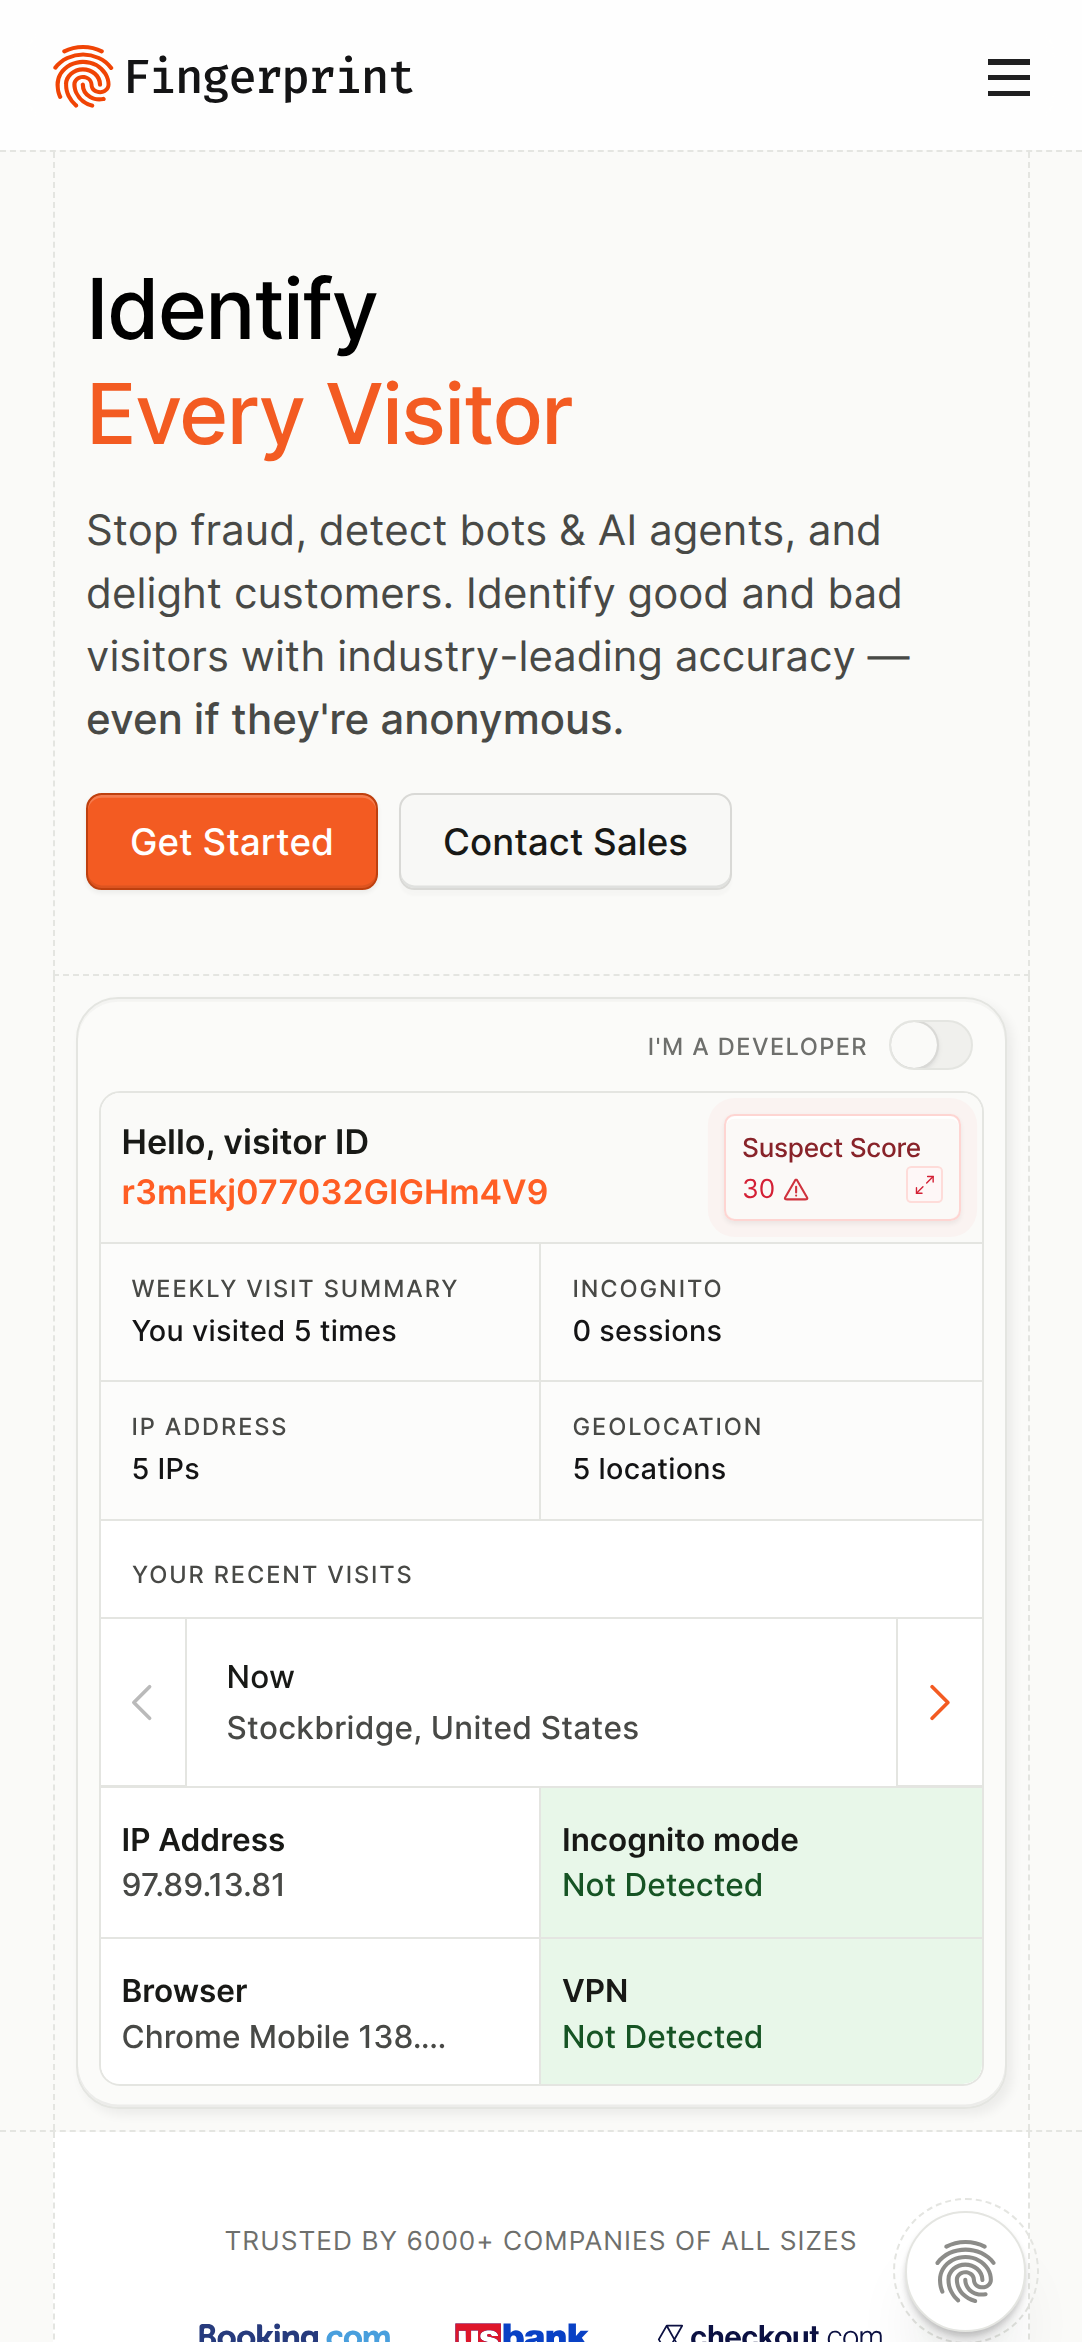
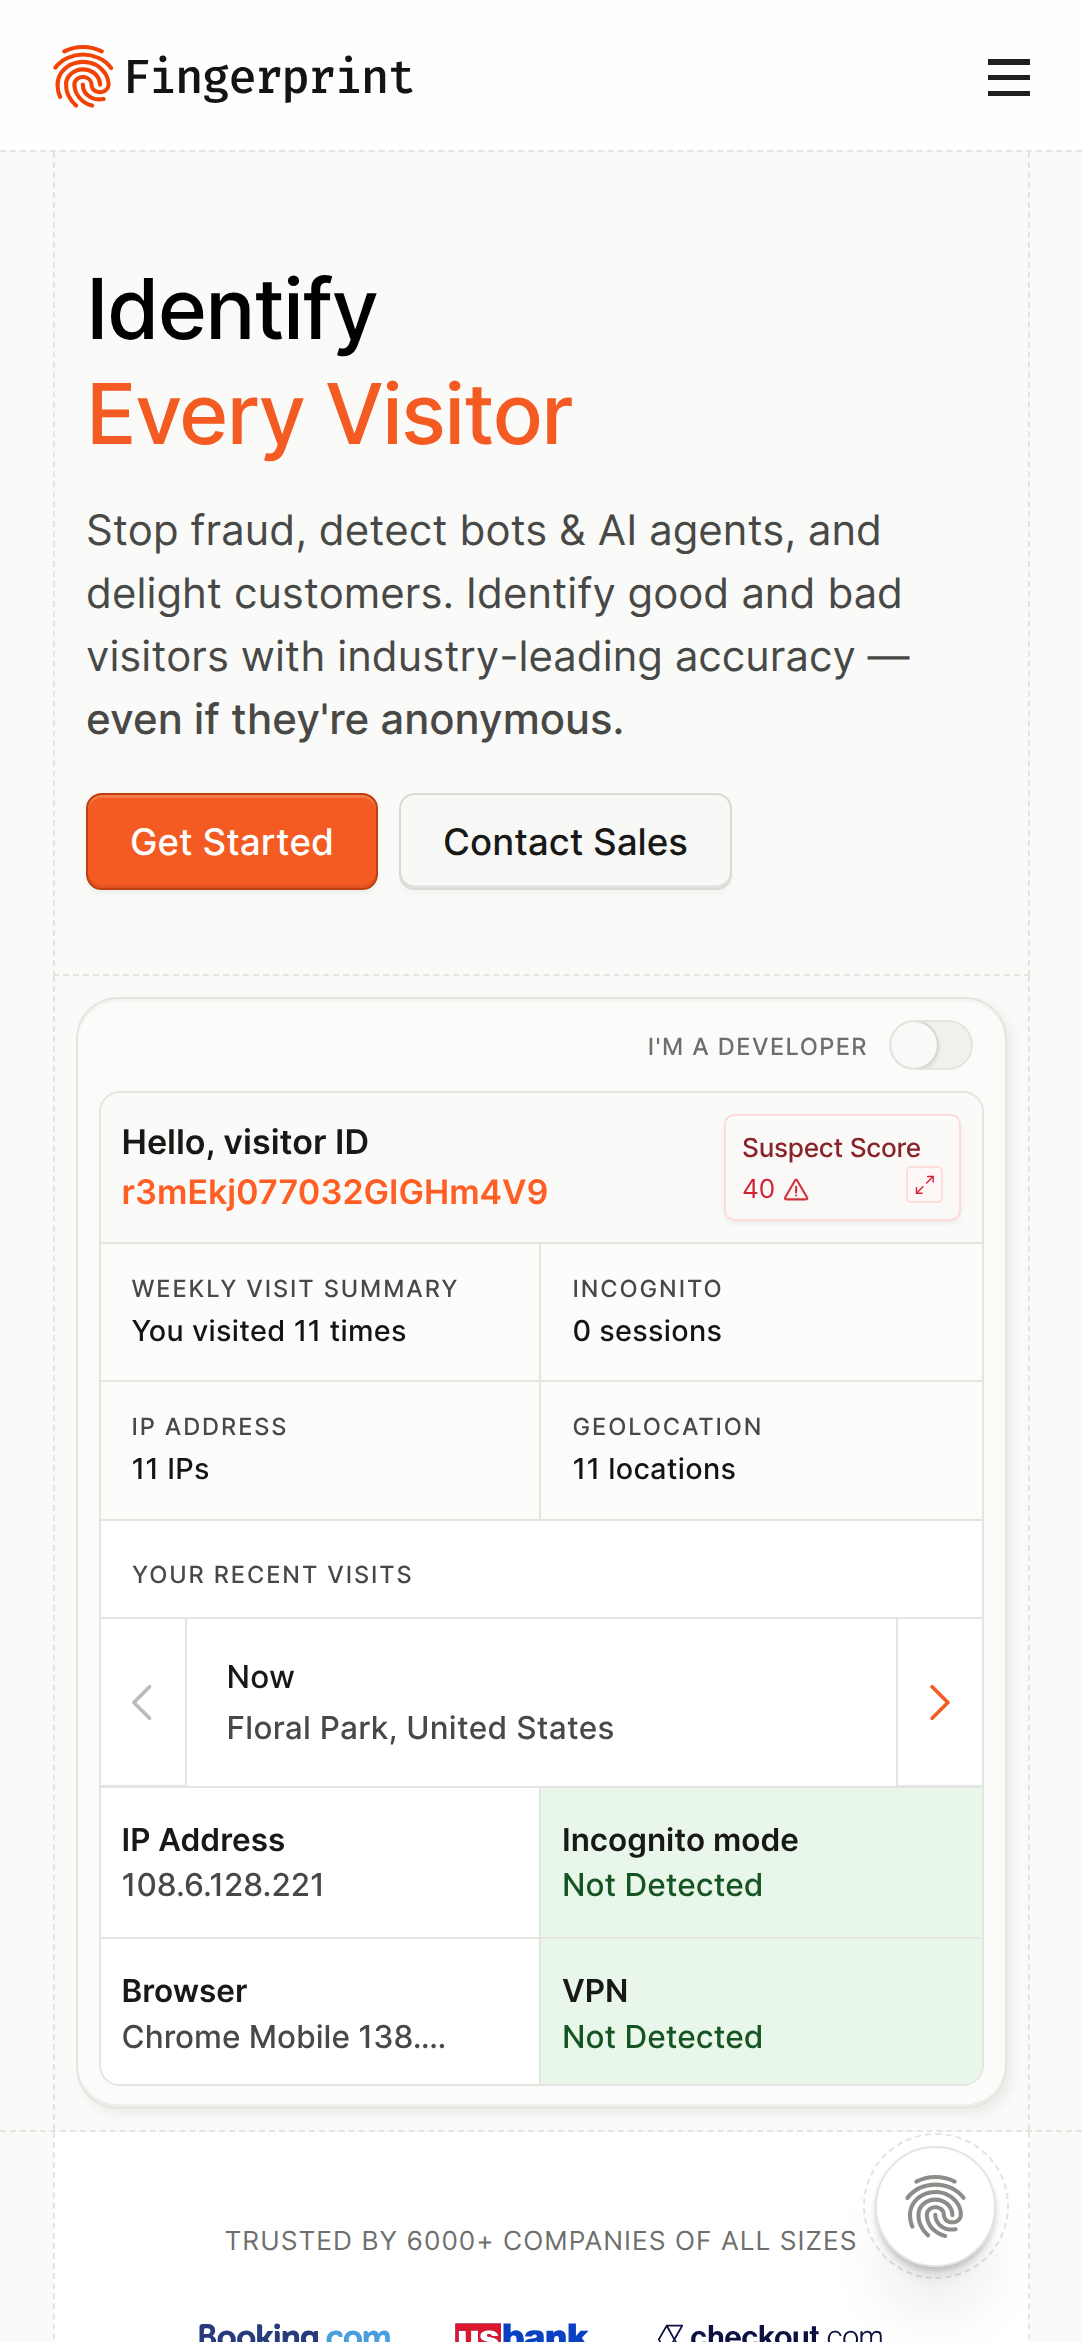
Update new

diff --git a/artifacts/api-server/gmail_uc_checker.py b/artifacts/api-server/gmail_uc_checker.py
@@ -1324,6 +1324,17 @@ try{{Object.defineProperty(window.history,'length',{{get:()=>{hist},configurable
       id:undefined
     }};
   }}
+  // Register chrome.runtime methods as native-looking so .toString() doesn't reveal JS source.
+  // Real Chrome's runtime is a C++ native object — unregistered overrides expose JS source.
+  if(window.__nr&&window.chrome.runtime){{
+    window.__nr(window.chrome.runtime.connect,'connect');
+    window.__nr(window.chrome.runtime.sendMessage,'sendMessage');
+    if(window.chrome.runtime.onMessage){{
+      window.__nr(window.chrome.runtime.onMessage.addListener,'addListener');
+      window.__nr(window.chrome.runtime.onMessage.removeListener,'removeListener');
+      window.__nr(window.chrome.runtime.onMessage.hasListener,'hasListener');
+    }}
+  }}
   try{{delete window.chrome.app;}}catch(e){{}}
   if(!window.chrome.loadTimes){{var _lt=Date.now()/1000;window.chrome.loadTimes=function(){{var _t=Date.now()/1000;return{{requestTime:_t-0.5,startLoadTime:_t-0.5,commitLoadTime:_t-0.3,finishDocumentLoadTime:_t-0.1,finishLoadTime:_t,firstPaintTime:_lt-0.25,firstPaintAfterLoadTime:_lt-0.18,navigationType:'Other',wasFetchedViaSpdy:false,wasNpnNegotiated:false,npnNegotiatedProtocol:'',wasAlternateProtocolAvailable:false,connectionInfo:''}}}};if(window.__nr)window.__nr(window.chrome.loadTimes,'loadTimes');}}
   if(!window.chrome.csi)window.chrome.csi=function(){{return{{startE:Date.now()-1000,onloadT:Date.now()-500,pageT:500,tran:15}}}};
@@ -1872,6 +1883,10 @@ try{{
   // Prevent document-level webdriver property exposure
   try{{Object.defineProperty(document,'__webdriver_script_fn',{{get:function(){{return undefined;}},configurable:true}});}}catch(e){{}}
 }})();
+// Tampering fix: remove window.__nr from window so fingerprint.com cannot detect it via
+// Object.getOwnPropertyNames(window). The underlying WeakMap stays alive in the IIFE
+// closure — all already-registered functions keep their native-looking toString().
+try{{delete window.__nr;}}catch(e){{}}
 """
 
 
@@ -2337,6 +2352,20 @@ def check_gmail(email: str, password: str, totp_secret: str | None, proxy: str |
         log(f"CDP deviceMetrics set → {fp['screenW']}x{fp['screenH']} dpr={fp['dpr']}")
     except Exception as e:
         log(f"CDP deviceMetrics warning (non-fatal): {e}")
+
+    # VM detection fix: Emulation.setUserAgentOverride sets navigator.userAgent and
+    # navigator.platform at the CDP emulation layer — deeper than Network.setUserAgentOverride.
+    # fingerprint.com compares the CDP-emulation-reported platform against the JS-reported
+    # platform; both must agree on "Linux armv8l" to avoid a VM mismatch signal.
+    try:
+        driver.execute_cdp_cmd("Emulation.setUserAgentOverride", {
+            "userAgent":      MOBILE_UA,
+            "acceptLanguage": f"{fp['language']},en;q=0.9",
+            "platform":       fp["platform"],
+        })
+        log(f"CDP Emulation UA override set → platform={fp['platform']}")
+    except Exception as e:
+        log(f"CDP Emulation UA override warning (non-fatal): {e}")
 
     # Exit IP fetch skipped — each account uses a unique sticky session ID for IP isolation
     exit_ip = None
